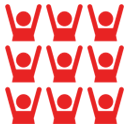
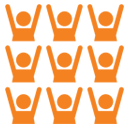
1

diff --git a/src/views/other-order/other-order.vue b/src/views/other-order/other-order.vue
@@ -27,7 +27,48 @@
         @load="onLoad"
       >
         <ul class="order-ul">
-          <li class="order-item" v-for="(item, index) in list" :key="index">
+          <li class="order-li" v-for="(item, index) in list" :key="index">
+            <div class="order-info-box">
+              <div class="order-li-inline">
+                订单状态: {{ statusObj[form.status] }}
+              </div>
+              <div class="order-li-flex">
+                订单编号: {{ item.order_sn }}
+                <div class="fu-zhi" @click="copy(item.order_sn)">复制</div>
+              </div>
+            </div>
+            <div class="order-info-box">
+              <div class="order-li-inline">{{ item.c_time }}</div>
+              <div class="order-li-inline">
+                付款金额: ¥{{ item.order_amount }}
+              </div>
+              <div class="order-li-inline">
+                类型:{{ platform[item.platform] }}订单
+              </div>
+            </div>
+            <div class="shpping-info">
+              <div class="shpping-img">
+                <img :src="item.goods_thumbnail_url" alt="" />
+              </div>
+              <div class="shpping-flex">
+                <div class="info-box">
+                  <div class="info-box-div">
+                    <div class="name">{{ item.goods_name }}</div>
+                    <div class="money-box">
+                      <!-- <div class="money-box-flex">
+                        标准返利: ¥{{ item.promotion_amount }}
+                      </div> -->
+                      <div class="money-box-flex" style="text-align: right;">
+                        返利:
+                        <span class="red">¥{{ item.estimated_award }}</span>
+                      </div>
+                    </div>
+                  </div>
+                </div>
+              </div>
+            </div>
+          </li>
+          <!-- <li class="order-item" v-for="(item, index) in list" :key="index">
             <div class="order-head">
               <div class="order-type">
                 <span>{{ platform[item.platform] }}</span>
@@ -47,13 +88,9 @@
               <div class="od-money">实付金额: ¥{{ item.order_amount }}</div>
               <div class="my-money">奖金:¥{{ item.user_award }}</div>
             </div>
-          </li>
+          </li> -->
         </ul>
       </van-list>
-      <!-- <div class="no-data">
-        <img src="../../assets/image/no-data.png" alt="" />
-        <p>空空如也~</p>
-      </div> -->
     </div>
   </div>
 </template>
@@ -78,6 +115,11 @@ export default class MyOtherOrder extends Vue {
     pdd: "拼多多"
   };
   private active = "tb";
+  private statusObj: objAny = {
+    "0": "已支付",
+    "5": "已结算",
+    "4": "已失效"
+  };
   private orderStatus: objAny = {
     "-1": "已支付",
     "0": "已支付",
@@ -102,6 +144,9 @@ export default class MyOtherOrder extends Vue {
     this.list = [];
     this.finished = true;
     this.getOrderList();
+  }
+  public copy(text: string) {
+    this.$common.copyText(text);
   }
   public itemClick(index: number) {
     this.form.status = index;
@@ -167,7 +212,7 @@ export default class MyOtherOrder extends Vue {
         }
       }
       .header-item.active {
-        color: #f52724 !important;
+        color: #f48220 !important;
       }
     }
     .tips-text {
@@ -209,79 +254,141 @@ export default class MyOtherOrder extends Vue {
     }
   }
   .order-ul {
-    .order-item {
-      margin-top: 2vw;
+    .order-li {
+      margin-top: 0.2rem;
+      padding: 0.1rem 0.2rem;
       background-color: #fff;
-      padding: 2vw 4vw 0 4vw;
-      .order-head {
+      .order-info-box {
+        color: #999;
+        font-size: 0.24rem;
         display: flex;
-        font-size: 3.2vw;
+        .order-li-inline {
+          flex: 1;
+          line-height: 0.4rem;
+        }
+        .time {
+          font-size: 0.28rem;
+        }
+        .order-li-flex {
+          flex: 2;
+        }
+        .fu-zhi {
+          padding: 0 0.1rem;
+          border: 1px solid #999;
+          border-radius: 0.1rem;
+          float: right;
+          font-size: 0.18rem;
+        }
+      }
+      .shpping-info {
+        display: flex;
+        margin-top: 0.2rem;
         color: #333;
-        border-bottom: 1px solid #eee;
-        padding-bottom: 2vw;
-        .order-type {
-          flex: 1;
-          span {
-            background: rgba(216, 0, 0);
-            color: #fff;
-            font-size: 1vw;
-            display: inline-block;
-            padding: 0.5vw 1vw;
-            border-radius: 0.5vw;
-            line-height: 2.5vw;
-            font-size: 2.5vw;
-            vertical-align: text-top;
+        font-size: 0.24rem;
+        .shpping-img {
+          width: 1.5rem;
+          height: 1.5rem;
+          img {
+            width: 100%;
+            height: 100%;
           }
         }
-      }
-      .order-info {
-        padding: 2vw 0;
-        border-bottom: 1px solid #eee;
-        .title {
-          font-size: 3.2vw;
-          line-height: 4vw;
-          overflow: hidden;
-          text-overflow: ellipsis;
-          white-space: nowrap;
-          color: #333;
-        }
-        .order-status-list {
-          margin-top: 2vw;
-          margin-bottom: 4vw;
-          height: 5vw;
-          .tag {
-            padding: 0 2vw;
-            height: 4.8vw;
-            font-size: 3vw;
-            color: #fff;
-            display: inline-block;
-            vertical-align: top;
-            line-height: 4.8vw;
-            text-align: center;
-            border-radius: 2.4vw;
-            background: #ff8400;
-            margin-right: 2vw;
-          }
-        }
-        .order-time {
-          font-size: 3.2vw;
-          line-height: 4vw;
-          color: #333;
-        }
-      }
-      .order-money {
-        display: flex;
-        .od-money,
-        .my-money {
+        .shpping-flex {
+          padding-left: 0.2rem;
           flex: 1;
-          font-size: 3.2vw;
-          line-height: 8vw;
-        }
-        .my-money {
-          text-align: right;
+          .info-box {
+            height: 100%;
+            display: flex;
+            align-items: center;
+            justify-items: center;
+          }
+          .info-box-div {
+            width: 100%;
+          }
+          .money-box {
+            width: 100%;
+            margin-top: 0.1rem;
+            display: flex;
+            .money-box-flex {
+              flex: 1;
+            }
+          }
         }
       }
     }
+    // .order-item {
+    //   margin-top: 2vw;
+    //   background-color: #fff;
+    //   padding: 2vw 4vw 0 4vw;
+    //   .order-head {
+    //     display: flex;
+    //     font-size: 3.2vw;
+    //     color: #333;
+    //     border-bottom: 1px solid #eee;
+    //     padding-bottom: 2vw;
+    //     .order-type {
+    //       flex: 1;
+    //       span {
+    //         background: #f48220;
+    //         color: #fff;
+    //         font-size: 1vw;
+    //         display: inline-block;
+    //         padding: 0.5vw 1vw;
+    //         border-radius: 0.5vw;
+    //         line-height: 2.5vw;
+    //         font-size: 2.5vw;
+    //         vertical-align: text-top;
+    //       }
+    //     }
+    //   }
+    //   .order-info {
+    //     padding: 2vw 0;
+    //     border-bottom: 1px solid #eee;
+    //     .title {
+    //       font-size: 3.2vw;
+    //       line-height: 4vw;
+    //       overflow: hidden;
+    //       text-overflow: ellipsis;
+    //       white-space: nowrap;
+    //       color: #333;
+    //     }
+    //     .order-status-list {
+    //       margin-top: 2vw;
+    //       margin-bottom: 4vw;
+    //       height: 5vw;
+    //       .tag {
+    //         padding: 0 2vw;
+    //         height: 4.8vw;
+    //         font-size: 3vw;
+    //         color: #fff;
+    //         display: inline-block;
+    //         vertical-align: top;
+    //         line-height: 4.8vw;
+    //         text-align: center;
+    //         border-radius: 2.4vw;
+    //         background: #ff8400;
+    //         margin-right: 2vw;
+    //       }
+    //     }
+    //     .order-time {
+    //       font-size: 3.2vw;
+    //       line-height: 4vw;
+    //       color: #333;
+    //     }
+    //   }
+    //   .order-money {
+    //     display: flex;
+    //     .od-money,
+    //     .my-money {
+    //       flex: 1;
+    //       font-size: 3.2vw;
+    //       line-height: 8vw;
+    //     }
+    //     .my-money {
+    //       text-align: right;
+    //     }
+    //   }
+    // }
   }
 }
 </style>

diff --git a/src/views/my-order/my-order.vue b/src/views/my-order/my-order.vue
@@ -3,15 +3,15 @@
     <div class="order-header">
       <div class="order-number-info">
         <div class="order-number-flex">
-          <div class="number-name">已省钱</div>
+          <div class="number-name">累计少花</div>
           <div class="number">¥{{ userInfo.total_saving | money }}</div>
         </div>
         <div class="order-number-flex tow">
-          <div class="number-name">订单数</div>
+          <div class="number-name">累计订单</div>
           <div class="number">{{ walletInfo.order_count || 0 }}</div>
         </div>
         <div class="order-number-flex three">
-          <div class="number-name">待返利</div>
+          <div class="number-name">待返利金</div>
           <div class="number">¥{{ walletInfo.unsettled | money }}</div>
         </div>
       </div>
@@ -325,7 +325,7 @@ export default class MyOrder extends Vue {
         }
       }
       .header-item.active {
-        color: #f52724 !important;
+        color: #f48220 !important;
       }
     }
     .tips-text {

diff --git a/src/components/tab-btn/tab-btn.vue b/src/components/tab-btn/tab-btn.vue
@@ -49,15 +49,15 @@ export default class TabBtn extends Vue {
     font-size: 0;
     display: inline-block;
     vertical-align: top;
-    border: 1px solid rgba(233, 51, 37);
+    border: 1px solid #f48220;
     border-radius: 0.1rem;
   }
   .tab-btn-flex {
     display: inline-block;
     width: 1rem;
     vertical-align: top;
-    color: rgba(233, 51, 37);
-    border-right: 1px solid rgba(233, 51, 37);
+    color: #f48220;
+    border-right: 1px solid #f48220;
     font-size: 0.28rem;
     line-height: 0.4rem;
   }
@@ -65,7 +65,7 @@ export default class TabBtn extends Vue {
     border: none;
   }
   .tab-btn-flex.active {
-    background: rgba(233, 51, 37);
+    background: #f48220;
     color: #fff;
   }
 }

diff --git a/src/views/problem-list/problem-list.vue b/src/views/problem-list/problem-list.vue
@@ -96,7 +96,7 @@ export default class ProblemList extends Vue {
         {
           qu: "奖金提现到账时间？",
           an:
-            '到账时间为申请提现后<span style="color:red">24小时</span>内左右，系统自动打款，请注意查收。'
+            '到账时间为申请提现后<span style="color:red">1-2个工作日</span>内左右，系统自动打款，请注意查收。'
         },
         {
           qu: "填写支付宝账号后无法点击提交",

diff --git a/src/views/my-team-list/my-team-list.vue b/src/views/my-team-list/my-team-list.vue
@@ -200,7 +200,7 @@ export default class MyTeam extends Vue {
   .my-team-header {
     .header-bg {
       position: relative;
-      background: rgba(234, 104, 106);
+      background: #f48220;
       font-size: 0.28rem;
       color: #fff;
       padding-bottom: 0.8rem;

diff --git a/src/views/problem-details/problem-details.vue b/src/views/problem-details/problem-details.vue
@@ -33,6 +33,7 @@ export default class ProblemList extends Vue {
 .problem-list-details {
   background-color: #fff;
   padding: 30px 20px;
+  font-size: 0.28rem;
   .an {
     margin-top: 8vw;
   }
